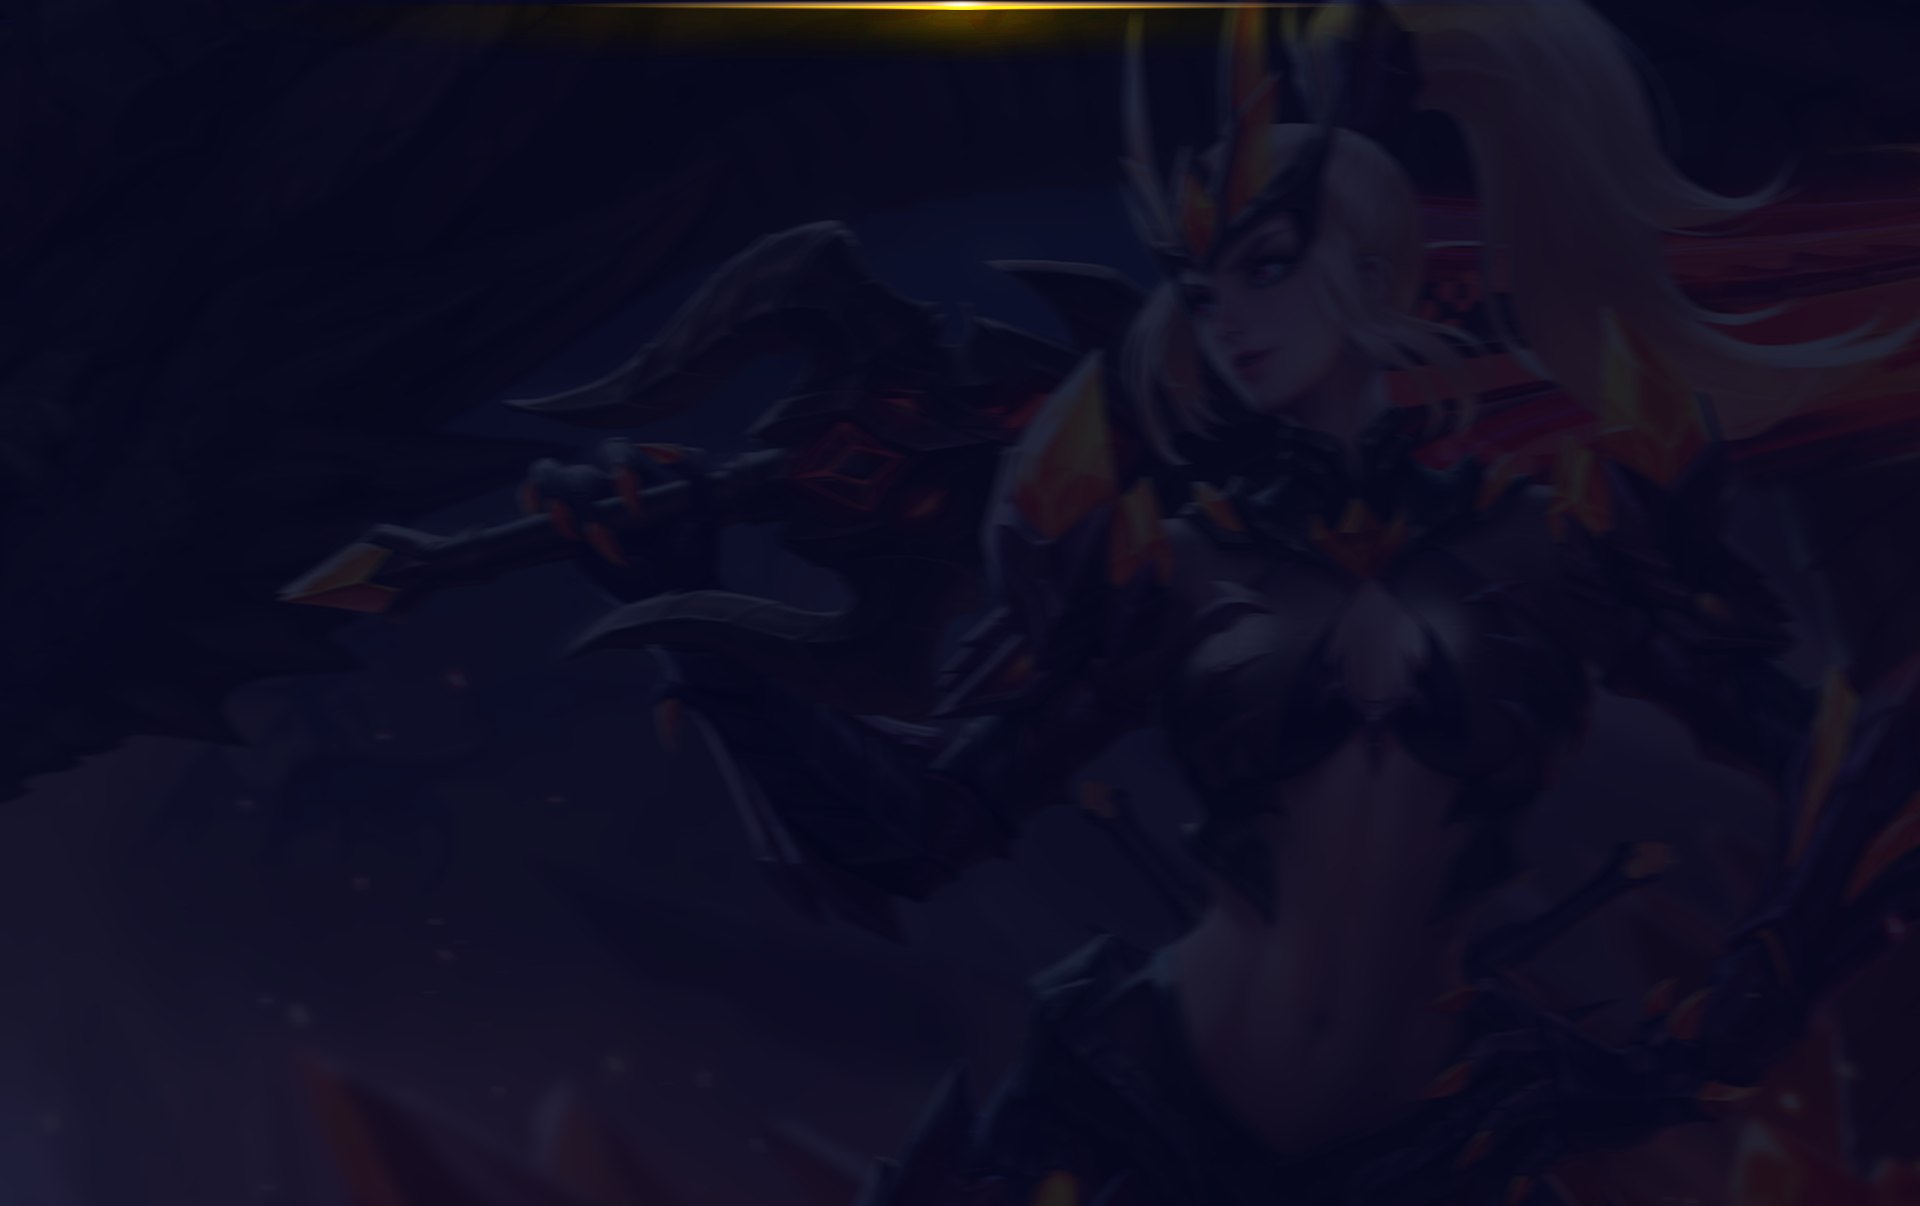
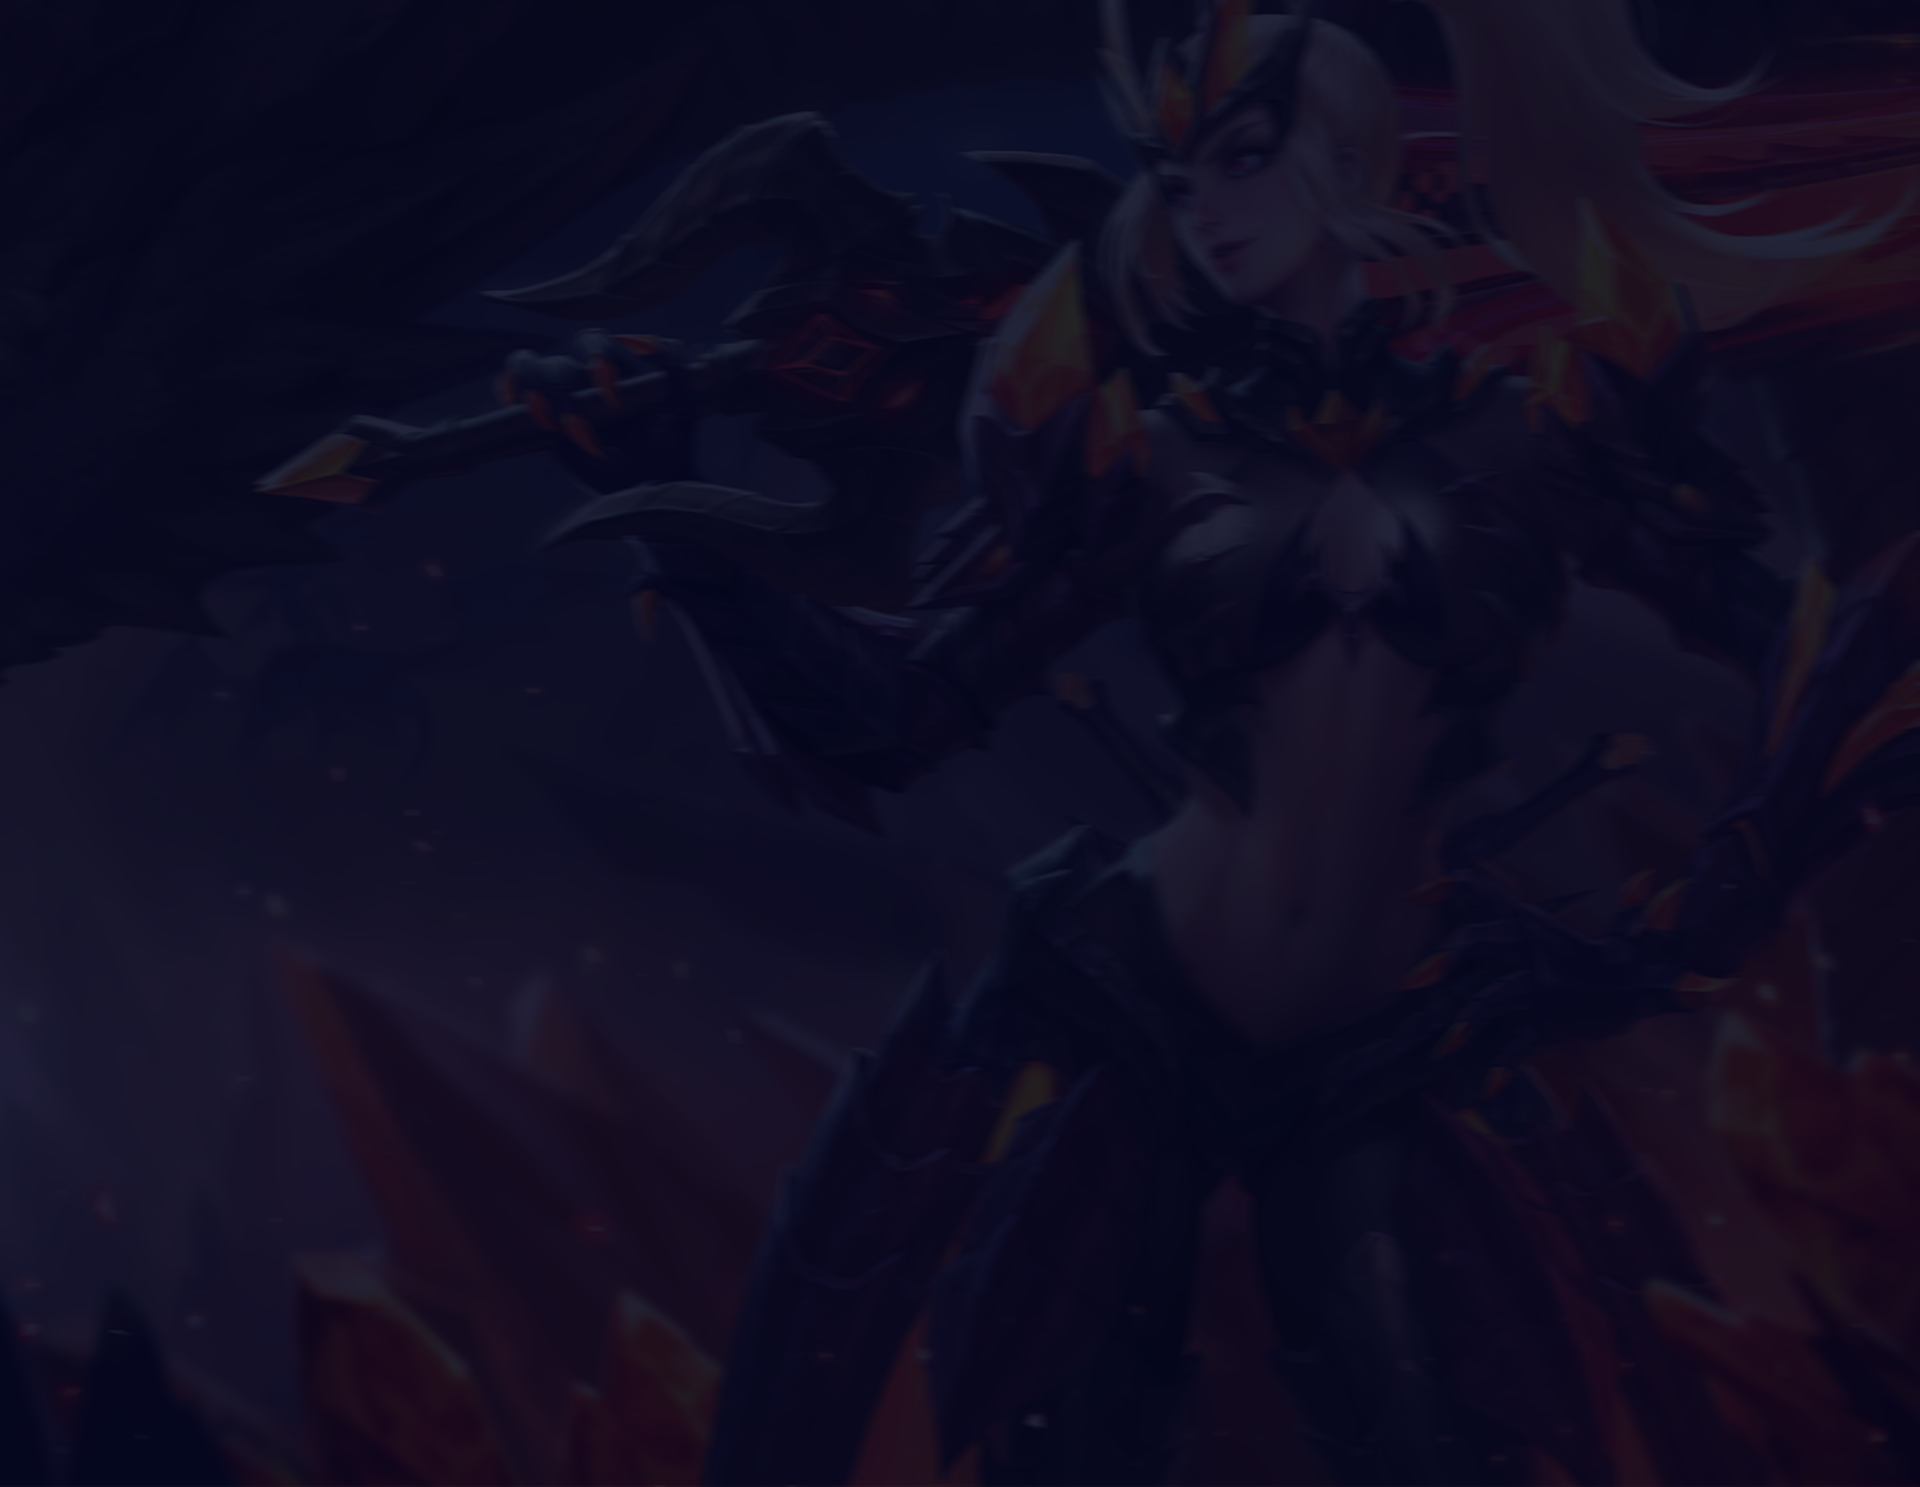
banner修改 初赛复赛背景图修改 首页底部个人队伍框居中

diff --git a/public/static/home/css/gloryindex.css b/public/static/home/css/gloryindex.css
@@ -1,12 +1,12 @@
 /*内容*/		
-.banner_in { height: 850px;background: url(../img/banr_con.jpg) no-repeat;background-size: cover;}		
-.wond_btn {width: 600px;height: 70px;margin: 0 auto;padding-top: 760px;}
+.banner_in { height: 710px;background: url(../img/banner7.jpg) no-repeat;background-size: 100% 100%;}		
+.wond_btn {width: 600px;height: 70px;margin: 0 auto;padding-top: 600px;}
 .wond_btn .btn_time {float: left; width: 265px;height: 70px;background: url(../img/time.png) no-repeat;background-size: 100% 100%;}
 .wond_btn .btn_huaxu {float: right; width: 265px;height: 70px;background: url(../img/huaxu.png) no-repeat;background-size: 100% 100%;}
 
 /*.banner_tiao {width: 100%;height: 85px;background: url(../img/tip_bg.png) no-repeat;background-size: 100% 100%;}*/
 
-.main {width: 100%;min-height: 170px;background-color: #030b2a;}
+.main {width: 100%;min-height: 170px;background-color: #030c2b;}
 .main .notice {
 margin: 50px 0 0 25%;
 width: 530px;
@@ -24,7 +24,7 @@ float: left;
 .main_team ul li h3 {line-height: 40px;font-size: 24px;}
 .main_team ul li p {line-height: 20px;font-size: 12px;}
 /*赛事规则*/
-.game_event {padding:37px 0;width: 100%;margin-top: 50px; background: url(../img/bg_top.png) top center no-repeat, url(../img/bg_bot.png) bottom center no-repeat;background-size: 100% auto;}
+.game_event {padding:37px 0;width: 100%;margin-top: 49px; background: url(../img/bg_top.png) top center no-repeat, url(../img/bg_bot.png) bottom center no-repeat;background-size: 100% auto;}
 .ecent_list {width: 100%;background: url(../img/main_bg.png) repeat-y;background-size: contain;}
 
 .event_time {
@@ -43,7 +43,7 @@ background-size: contain;
 .event_wrap {width: 910px;margin: 0 auto;}
 .event_wrap .tit_box {width: 340px;margin: 0 auto;}
 .event_wrap .tit_box p {line-height: 24px;height: 24px;font-size: 14px;color: #fff;text-align: center;}
-.event_wrap .tit_box p.yellow {color: #ffd76c;font-size: 16px;}
+.event_wrap .tit_box p.yellow {color: #ffd76c;font-size: 16px;height: 36px;line-height: 36px;}
 .event_road div {
 width: 640px;
 margin: 0 auto;
@@ -92,9 +92,9 @@ line-height: 24px;
 color: #fff;
 }
 /*底部banner*/
-.brnner_bot {width: 100%; height: 750px;background: url(../img/bm_bg.jpg) center no-repeat;background-size: 120% auto;}
-.str_team {float: left;margin: 140px 0 0 340px; width: 435px;height: 600px;background: url(../img/str_bg.png) no-repeat;background-size: 100% 100%;}
-.team_user {width: 300px;margin: 0 auto;margin-top: 120px;}
+.brnner_bot {position: relative; width: 100%; height: 750px;background: url(../img/bm_bg.jpg) center no-repeat;background-size: 120% auto;}
+.str_team {position: absolute;left: 50%;top: 80px; margin-left: -217px; width: 435px;height: 540px;background: url(../img/str_bg.png) no-repeat;background-size: 100% 100%;}
+.team_user {width: 300px;margin: 0 auto;margin-top: 100px;}
 .team_user h3 {width: 100%;height: 30px;background: url(../img/dw_line.png) center no-repeat;background-size: contain;text-align: center;font-size: 16px;line-height: 28px;color: #551c08;}
 .team_user p {line-height: 30px;color: #551c08;font-size: 14px;text-align: center;}
 
@@ -110,7 +110,7 @@ color: #fff;
 .team_member ul li.one .member_pic img {width: 100%;height: 100%;}
 .team_member ul li.other .member_pic img {width: 100%;height: 100%;}
 /*联系我们*/
-.conact {width: 710px;height: 260px; margin: 0 auto;}
+.conact {width: 710px;min-height: 200px; margin: 0 auto;}
 .conact .conact_til {text-align: center; width: 100%;height: 20px;background: url(../img/dw_line.png) center no-repeat;background-size: contain;}
 .conact .conact_til h3 {line-height: 16px;text-align: center;font-size: 16px;color: #edc867;}
 .conact .conact_til span {display: inline-block;width: 580px;}
@@ -125,5 +125,4 @@ color: #fff;
 .com_son {width: 940px;}
 .banner {width: 1140px;}
 .main {width: 1140px;}
-.str_team {margin-left: 260px;}
 }

diff --git a/public/static/home/css/glory.css b/public/static/home/css/glory.css
@@ -960,6 +960,7 @@ strong a {
 .lxwm-box {
     /*height: 580px;*/
     background: url("../img/lxwm_bg.jpg") center no-repeat;
+    padding:20px 0 30px 0;
 }
 .lxwm-box p {
     height: 28px;
@@ -1228,20 +1229,20 @@ strong a {
 .jxcs{margin:10px 0;}
 .jxcs p,.jxcs p span{color:#008cd6;line-height:3rem;}
 .jxcs p:first-child{font-size:30px;}
-.jxcs p>img{padding: 12px 5px 0 0;}
+.jxcs p>img{padding:8px;}
 .jx>p{color:#fff;font-size:16px;line-height:26px;}
 .w900 {width:900px;margin:0 auto;}
 .ditu{
     /*background: url("../img/bgdt.jpg") center top no-repeat;*/
-    padding:20px 0;
+    padding-bottom: 20px;
     background-size:100% 100%;
 }
-.ditu div>p{
+.ditu_til div>p{
     color:#008cd6;
     line-height:3rem;
     font-size:30px;
-    /*padding:20px 0;*/
 }
+.ditu_til div>p img {padding: 8px;}
 .uimg{display: inline-block; height: 220px; padding: 4px; background-color: rgba(255,255,255,0.2); }
 .dimg{display: inline-block; height: 313px; padding: 4px; background-color: rgba(255,255,255,0.2); }
 .uimg>img,.dimg>img{width:100%;height:100%;}
@@ -1250,6 +1251,12 @@ strong a {
 .sixqiang{
     background: url("../img/bgq1.png") center top no-repeat;
     background-size:cover;
+    padding-bottom: 20px;
+}
+.sixqiang .gang_top {
+    height: 10px;
+    background: url(../img/gang.png) center top no-repeat;
+    background-size: contain;
 }
 .sixqiang .w>div>span{
     display:block;
@@ -1381,7 +1388,7 @@ div.sslc>p{
     background: #4f3914;
     border: 1px solid #f7ab00;
     border-radius: 30px 0 30px 0;
-    margin: 130px auto 35px auto;
+    margin: 50px auto 35px auto;
 }
 .sixqiang>div.jointab>ul{
     width: 100%;

diff --git a/application/index/view/glory/finals.html b/application/index/view/glory/finals.html
@@ -73,7 +73,7 @@
                 <p>9.如果掉线选手5分钟内无法重连成功，或者掉线造成了逆转性的局势变化，裁判可在整局比赛结束前根据情况决定是否重赛，选手须完全服从，重赛时双方必须选择和重赛前完全一样的阵容；比赛一旦结束，则以比赛结果为准，不得重赛。</p>
                 <p>10.本次赛事解释权归赛事主办方所有。</p>
             </div>
-            <div class="ditu">
+            <div class="ditu_til">
                 <div class="w clearfix">
                     <p class="fl">
                         <img src="__PUBLIC__/img/jssc.png" alt="" class="fl">
@@ -90,7 +90,10 @@
         <div class="sixqiang cl">
             <div class="w">
                 <div>
-                    <span>16进8</span>
+                	<div class="gang_top"></div>
+                    <div class="til">
+                        <span>16进8</span>
+                    </div>
                     <ul class="cl">
                         {volist name='list16' id="vo"}
                         <li class="fl cl">

diff --git a/application/index/view/glory/semi.html b/application/index/view/glory/semi.html
@@ -73,7 +73,7 @@
                 <p>9.如果掉线选手5分钟内无法重连成功，或者掉线造成了逆转性的局势变化，裁判可在整局比赛结束前根据情况决定是否重赛，选手须完全服从，重赛时双方必须选择和重赛前完全一样的阵容；比赛一旦结束，则以比赛结果为准，不得重赛。</p>
                 <p>10.本次赛事解释权归赛事主办方所有。</p>
             </div>
-            <div class="ditu">
+            <div class="ditu_til">
                 <div class="w clearfix">
                     <p class="fl">
                         <img src="__PUBLIC__/img/jssc.png" alt="" class="fl">
@@ -88,6 +88,7 @@
             </div>
         </div>
         <div class="sixqiang cl">
+        	<div class="gang_top"></div>
             <div class="w">
                 <ul id="lbtab">
                     <li class="active">参赛队伍</li>

diff --git a/application/index/view/glory/primary.html b/application/index/view/glory/primary.html
@@ -73,7 +73,7 @@
                 <p>9.如果掉线选手5分钟内无法重连成功，或者掉线造成了逆转性的局势变化，裁判可在整局比赛结束前根据情况决定是否重赛，选手须完全服从，重赛时双方必须选择和重赛前完全一样的阵容；比赛一旦结束，则以比赛结果为准，不得重赛。</p>
                 <p>10.本次赛事解释权归赛事主办方所有。</p>
             </div>
-			<div class="ditu">
+			<div class="ditu_til">
             	<div class="w clearfix">
 					<p class="fl">
 	                    <img src="__PUBLIC__/img/jssc.png" alt="" class="fl">
@@ -95,6 +95,7 @@
             </div>
         </div>
         <div class="sixqiang cl">
+        	<div class="gang_top"></div>
             <div class="w">
                 <ul id="lbtab">
                     <li class="active">提交队伍</li>
